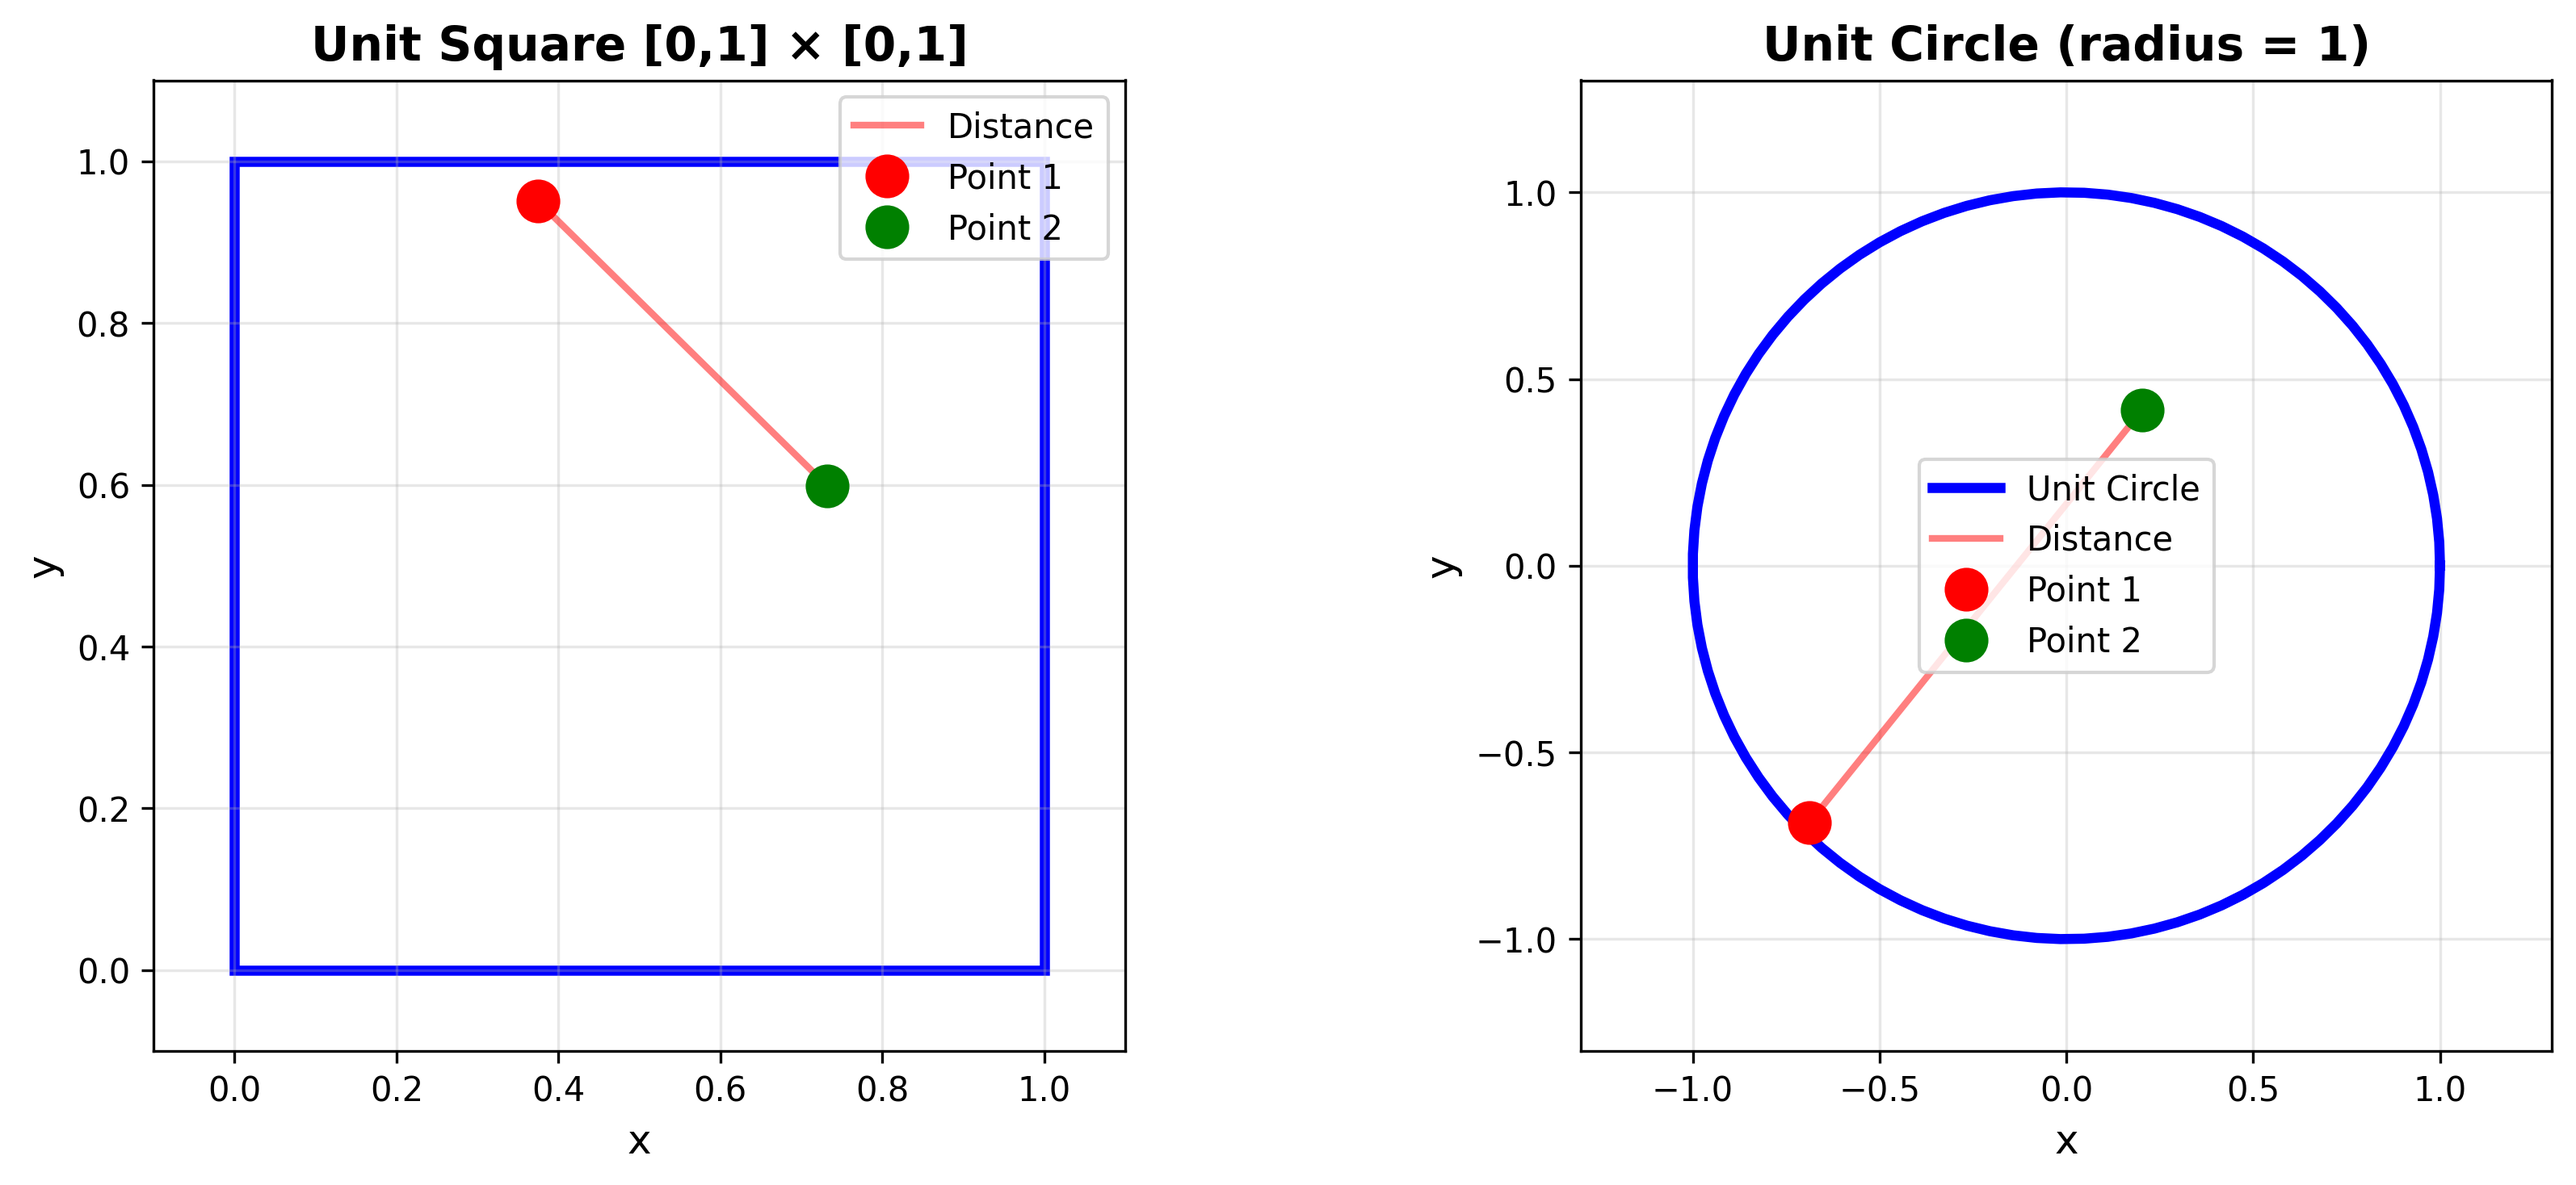
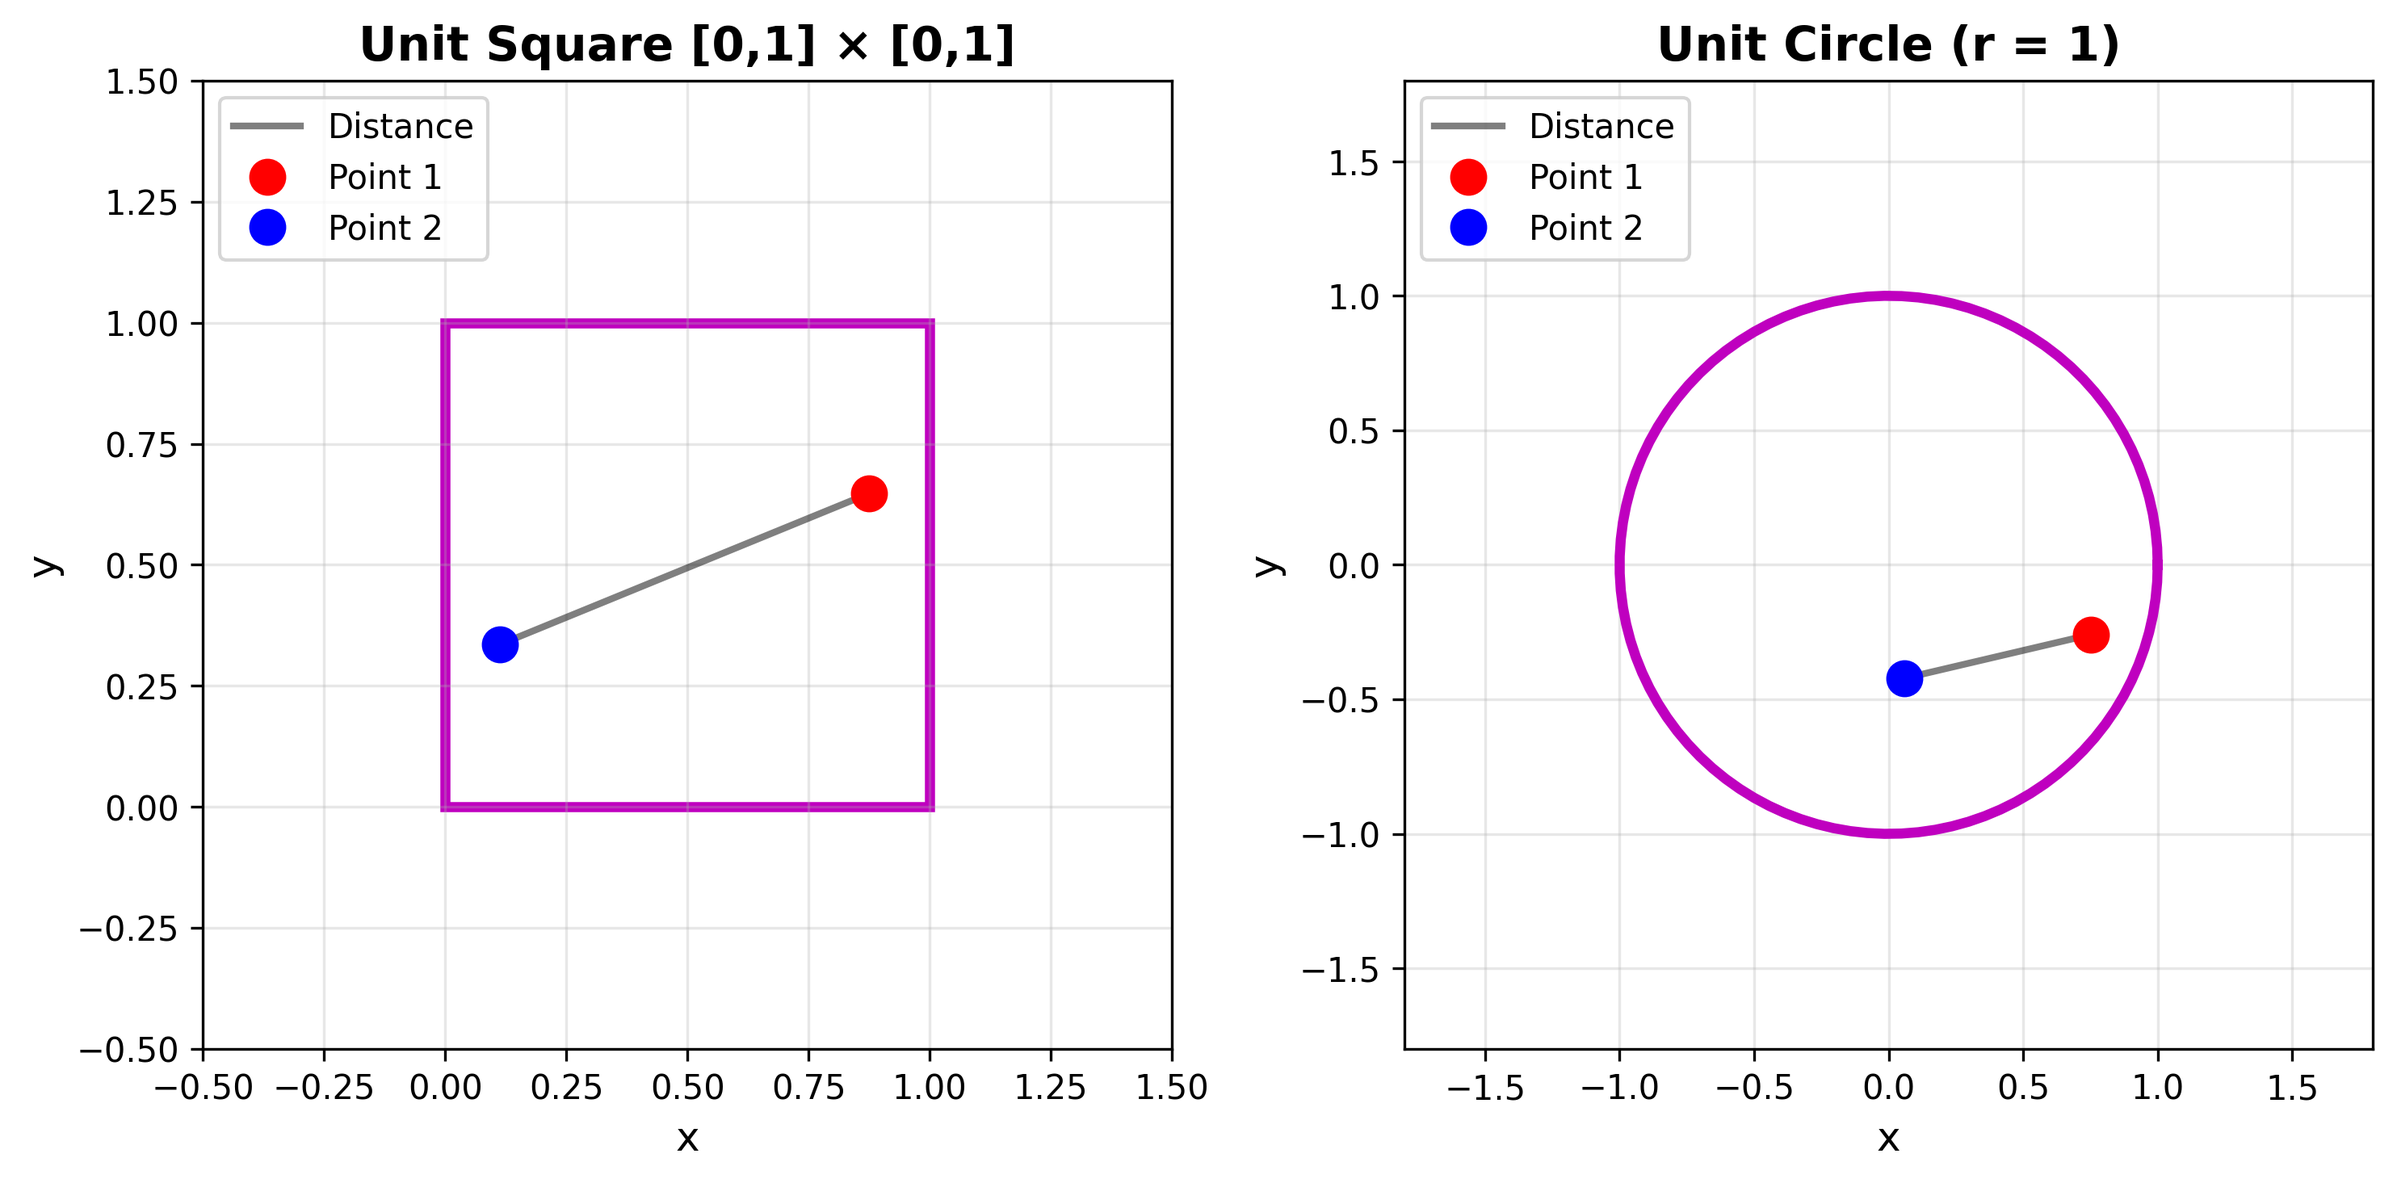
Fixed up diagrams

diff --git a/diagrams.py b/diagrams.py
@@ -2,59 +2,59 @@ import matplotlib.pyplot as plt
 import numpy as np
 
 # Create figure with two subplots
-fig, (ax1, ax2) = plt.subplots(1, 2, figsize=(12, 5))
+fig, (ax1, ax2) = plt.subplots(1, 2, figsize=(10, 5))
 
 # Unit Square
-square = plt.Rectangle((0, 0), 1, 1, fill=False, edgecolor='blue', linewidth=3)
+square = plt.Rectangle((0, 0), 1, 1, fill=False, edgecolor='m', linewidth=3)
 ax1.add_patch(square)
 
 # Two random points in square
-np.random.seed(42)  # For consistent diagram
 p1 = np.random.uniform(0, 1, 2)
 p2 = np.random.uniform(0, 1, 2)
 
-ax1.plot([p1[0], p2[0]], [p1[1], p2[1]], 'r-', linewidth=2, alpha=0.5, label=f'Distance')
-ax1.plot(p1[0], p1[1], 'ro', markersize=12, label='Point 1')
-ax1.plot(p2[0], p2[1], 'go', markersize=12, label='Point 2')
+ax1.plot([p1[0], p2[0]], [p1[1], p2[1]], 'k-', linewidth=2, alpha=0.5, label=f'Distance')
+ax1.plot(p1[0], p1[1], 'ro', markersize=10, label='Point 1')
+ax1.plot(p2[0], p2[1], 'bo', markersize=10, label='Point 2')
 
-ax1.set_xlim(-0.1, 1.1)
-ax1.set_ylim(-0.1, 1.1)
+ax1.set_xlim(-0.5, 1.5)
+ax1.set_ylim(-0.5, 1.5)
 ax1.set_aspect('equal')
 ax1.set_xlabel('x', fontsize=12)
 ax1.set_ylabel('y', fontsize=12)
 ax1.set_title('Unit Square [0,1] × [0,1]', fontsize=14, fontweight='bold')
 ax1.grid(True, alpha=0.3)
-ax1.legend(fontsize=10)
+ax1.legend(loc = 'upper left', fontsize=10)
 
 # Unit Circle
 theta = np.linspace(0, 2*np.pi, 100)
 x_circle = np.cos(theta)
 y_circle = np.sin(theta)
-ax2.plot(x_circle, y_circle, 'b-', linewidth=3, label='Unit Circle')
+ax2.plot(x_circle, y_circle, 'm-', linewidth=3)
 
-# Two random points in circle using rejection sampling
+# Two random points in circle
 def random_point_in_circle():
     while True:
         x = np.random.uniform(-1, 1)
         y = np.random.uniform(-1, 1)
+        # checks if point lies inside the circle
         if x**2 + y**2 <= 1:
             return np.array([x, y])
 
 c1 = random_point_in_circle()
 c2 = random_point_in_circle()
 
-ax2.plot([c1[0], c2[0]], [c1[1], c2[1]], 'r-', linewidth=2, alpha=0.5, label='Distance')
-ax2.plot(c1[0], c1[1], 'ro', markersize=12, label='Point 1')
-ax2.plot(c2[0], c2[1], 'go', markersize=12, label='Point 2')
+ax2.plot([c1[0], c2[0]], [c1[1], c2[1]], color = '#000000', linestyle = '-', linewidth=2, alpha=0.5, label='Distance')
+ax2.plot(c1[0], c1[1], 'ro', markersize=10, label='Point 1')
+ax2.plot(c2[0], c2[1], 'bo', markersize=10, label='Point 2')
 
-ax2.set_xlim(-1.3, 1.3)
-ax2.set_ylim(-1.3, 1.3)
+ax2.set_xlim(-1.8, 1.8)
+ax2.set_ylim(-1.8, 1.8)
 ax2.set_aspect('equal')
 ax2.set_xlabel('x', fontsize=12)
 ax2.set_ylabel('y', fontsize=12)
-ax2.set_title('Unit Circle (radius = 1)', fontsize=14, fontweight='bold')
+ax2.set_title('Unit Circle (r = 1)', fontsize=14, fontweight='bold')
 ax2.grid(True, alpha=0.3)
-ax2.legend(fontsize=10)
+ax2.legend(loc = 'upper left', fontsize=10)
 
 plt.tight_layout()
 plt.savefig('problem_diagrams.png', dpi=300, bbox_inches='tight')

diff --git a/monte_carlo_geometry.py b/monte_carlo_geometry.py
@@ -17,7 +17,7 @@ def distance_between_points(p1: np.ndarray, p2: np.ndarray) -> float:
         p2: Second point as numpy array [x, y]
     
     Returns:
-        Euclidean distance between points
+        Euclidean distance between points (Pythagorean theorem)
     """
     return np.sqrt(np.sum((p1 - p2) ** 2))
 

diff --git a/README.md b/README.md
@@ -15,7 +15,7 @@ These problems are difficult to solve analytically (they require complex multiva
 
 ## Monte Carlo Approach
 
-Instead of solving with calculus, we:
+Instead of solving with calculus:
 1. Generate 100,000 pairs of random points
 2. Calculate the distance for each pair
 3. Average all the distances
